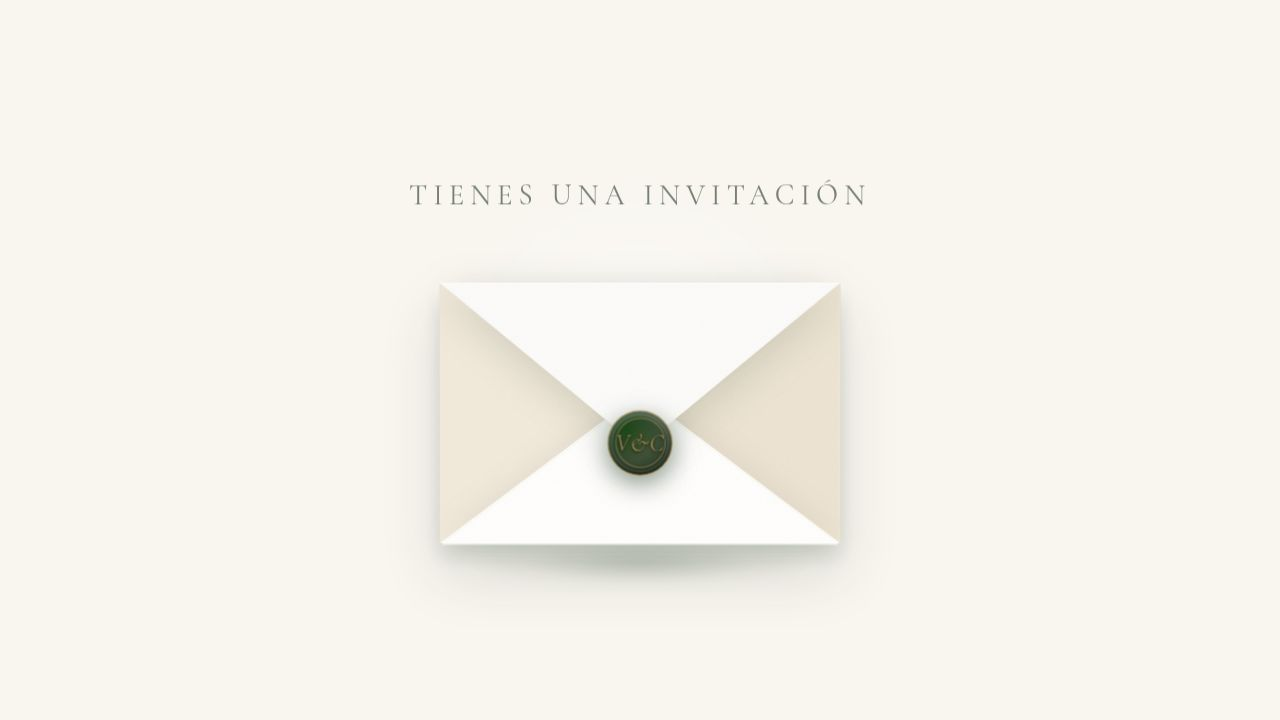
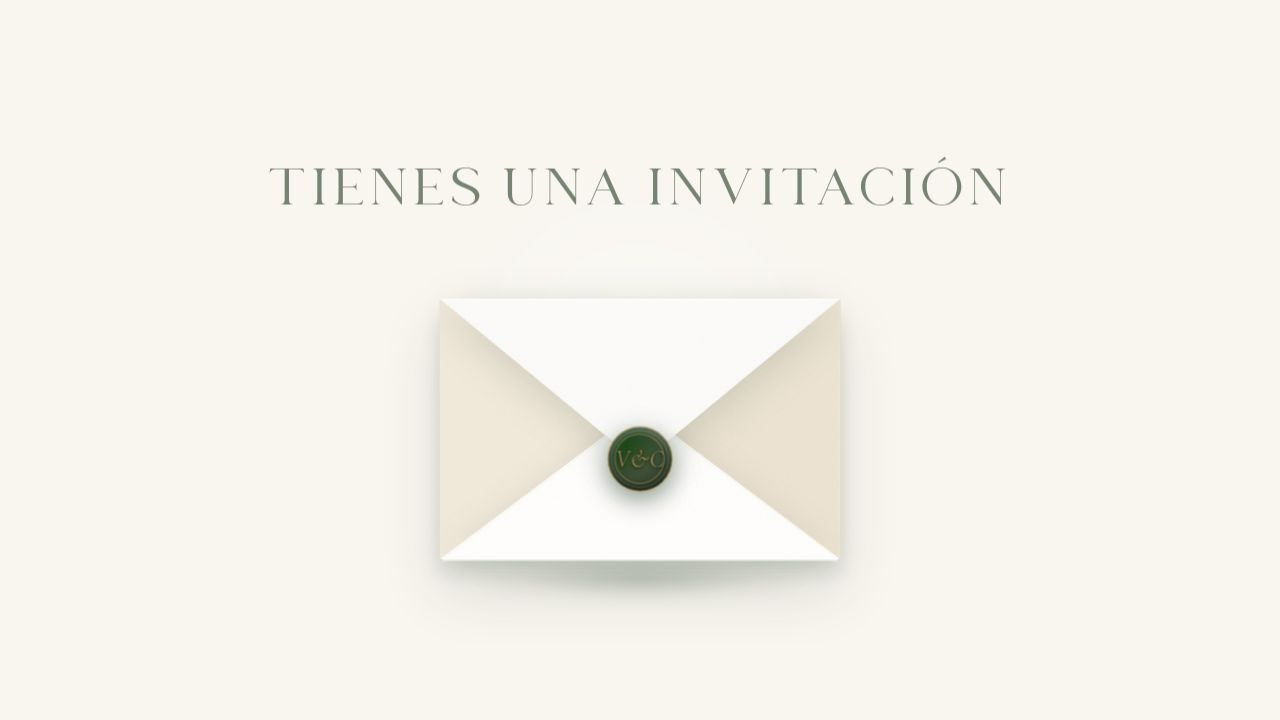
Optimize the design and layout of the RSVP confirmation section
Update the RSVP confirmation section in index.html and styles.css to enhance its visual appeal and user experience.

Replit-Commit-Author: Agent
Replit-Commit-Session-Id: 6df1e58d-2f94-4be3-9a6e-044d7e12e5a5
Replit-Commit-Checkpoint-Type: full_checkpoint
Replit-Commit-Event-Id: 014051e0-9d4c-4b91-bf4c-cb06d3f4b306
Replit-Commit-Screenshot-Url: https://storage.googleapis.com/screenshot-production-us-central1/8185892f-c34b-42bc-9aa0-82786a02d8de/6df1e58d-2f94-4be3-9a6e-044d7e12e5a5/kHdeYQH
Replit-Helium-Checkpoint-Created: true

Changed region(s): [[0.2188, 0.2139, 0.7812, 0.3056], [0.3438, 0.6417, 0.6562, 0.825], [0.3438, 0.3972, 0.6562, 0.7028]]

diff --git a/client/index.html b/client/index.html
@@ -165,7 +165,7 @@
             <div class="container">
                 <div class="dc-header animate-on-scroll">
                     <span class="dc-script" style="font-family: var(--font-script); font-size: 4rem;">Dress Code</span>
-                    <h2 class="dc-title" style="margin-top: 10px;">RIGUROSA ETIQUETA</h2>
+                    <h2 class="dc-title" style="margin-top: 10px;">ETIQUETA FORMAL</h2>
                 </div>
 
                 <div class="dc-illustrations animate-on-scroll delay-1" style="display: flex; justify-content: center; gap: 40px; margin: 30px 0;">
@@ -188,12 +188,7 @@
                 <div class="elegant-divider center-divider animate-on-scroll delay-3" style="margin: 40px auto;"></div>
 
                 <div class="inspo-section animate-on-scroll">
-                    <div class="inspo-header">
-                        <span class="inspo-script" style="font-family: var(--font-script); font-size: 4rem;">Inspo</span>
-                    </div>
-                    
-                    <p class="inspo-intro" style="margin: 20px 0;">Te compartimos nuestro outfit inspo para el gran día</p>
-                    
+                   
                     <div class="inspo-board" style="margin-top: 30px;">
                         <div class="inspo-grid">
                             <div class="inspo-img img-1"></div>
@@ -320,11 +315,23 @@
         </section>
 
         <!-- 8. RSVP Confirmation -->
-        <section class="section rsvp bg-green">
-            <div class="container">
-                <h2 class="section-title animate-on-scroll">Confirmación</h2>
-                <p class="text animate-on-scroll delay-1">Por favor confirma tu asistencia antes del 15 de Octubre de 2026.</p>
-                <button class="btn btn-large animate-on-scroll delay-2" id="rsvp-btn">Confirmar asistencia</button>
+        <section class="section rsvp-section bg-green">
+            <div class="container" style="max-width: 600px; text-align: center;">
+                <div class="section-heading animate-on-scroll">
+                    <h2 class="section-title elegant-title">Confirmación</h2>
+                    <div class="elegant-divider"></div>
+                </div>
+                
+                <p class="text animate-on-scroll delay-1" style="margin-bottom: 20px; font-size: 1.1rem; color: rgba(248, 246, 242, 0.9);">
+                    Por favor, confirma tu asistencia antes del<br>
+                    <span style="font-family: var(--font-serif); font-size: 1.5rem; color: var(--gold); display: block; margin-top: 10px;">15 de Octubre de 2026</span>
+                </p>
+
+                <div class="rsvp-action animate-on-scroll delay-2" style="margin-top: 40px;">
+                    <button class="btn-gift solid" id="rsvp-btn" style="padding: 15px 40px; font-size: 0.9rem;">
+                        Confirmar asistencia
+                    </button>
+                </div>
             </div>
         </section>
 

diff --git a/client/src/styles.css b/client/src/styles.css
@@ -1745,4 +1745,8 @@ body::before {
     .time-block span { font-size: 2.5rem; }
     .section { padding: 90px 20px; min-height: auto; }
     .music-btn { top: 20px; right: 20px; width: 45px; height: 45px; }
+
+    .rsvp-action::before, .rsvp-action::after {
+        display: none;
+    }
 }